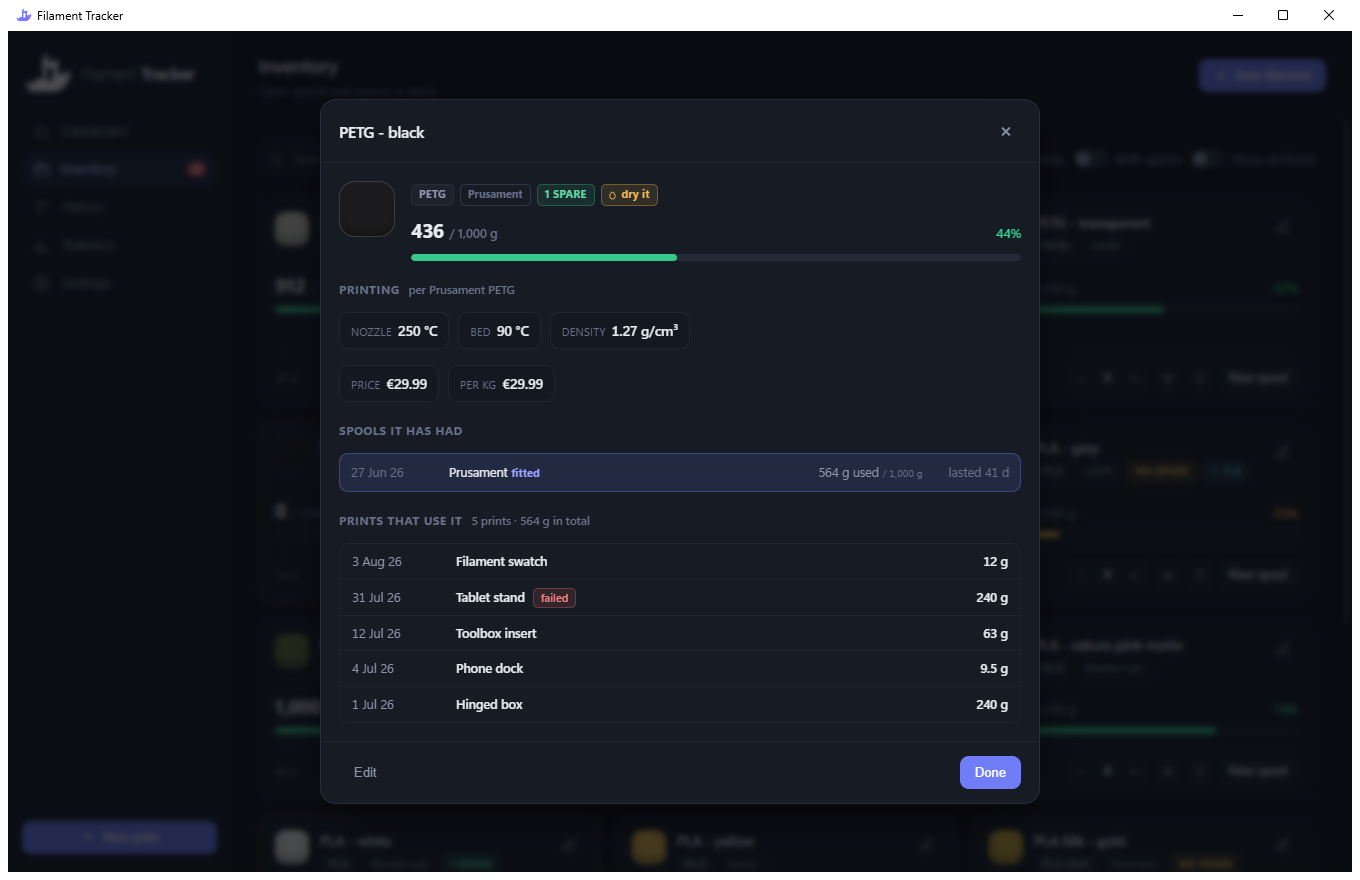
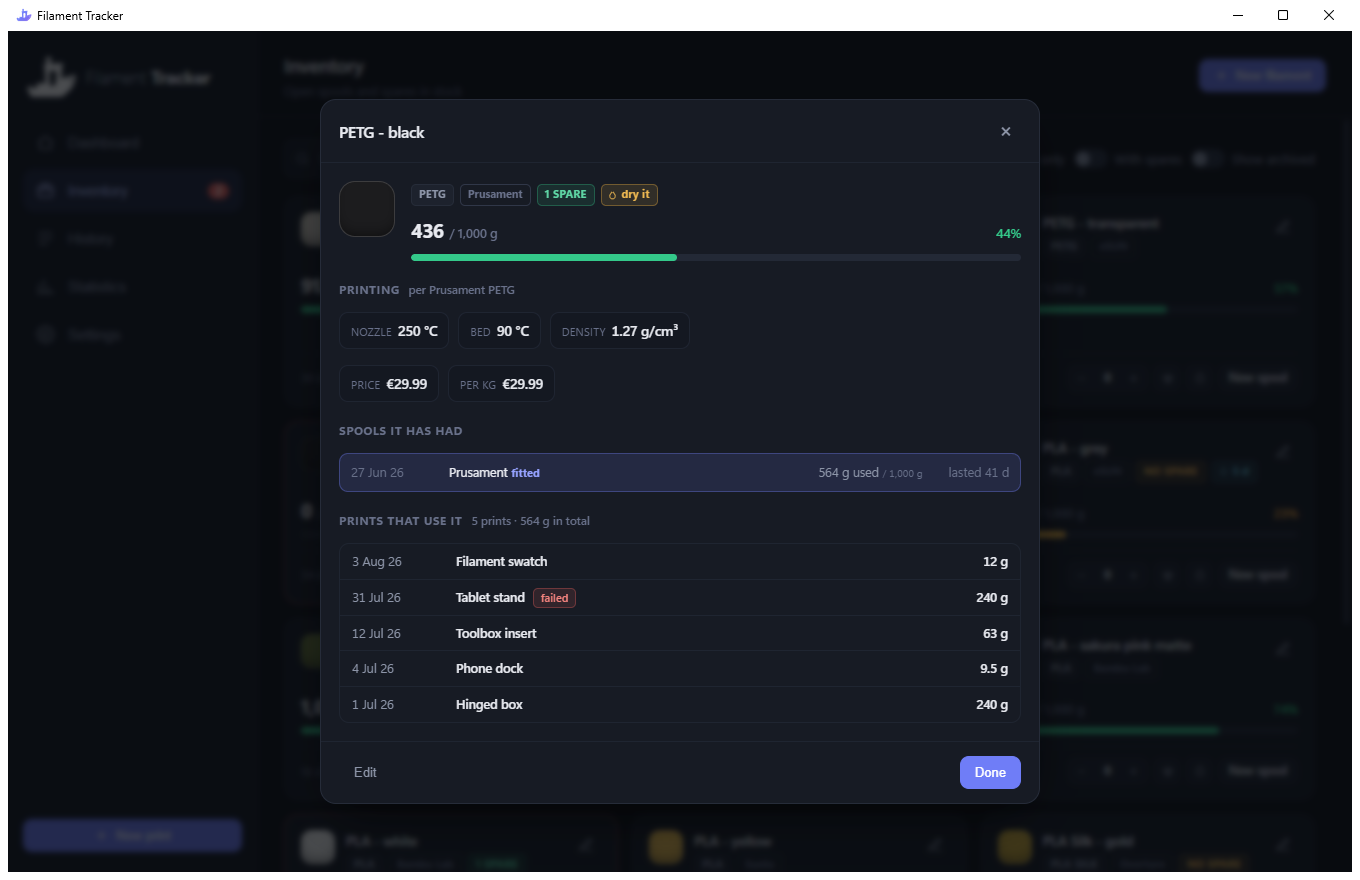
Bring the manual and the screenshots up to date
Documents the slicer folder panel: which folder is in use, how many sliced
plates are in it, and how to point it somewhere else. That number is the part
worth writing down, because it is what tells you whether a card that never
appears is reading an empty folder or the wrong one.

Also corrects the inventory section, which still said the sheet opens from the
filament's name, and regenerates all five screenshots for the wider sidebar.

diff --git a/README.es.md b/README.es.md
@@ -119,7 +119,8 @@ bobina sin borrar el historial.
 <img src="docs/inventory.png" alt="Inventario">
 
 Una tarjeta por filamento, con el nivel del rollo puesto y una barra que pasa a
-ámbar y luego a rojo según se vacía. Al pulsar el nombre se abre su **ficha**: todos
+ámbar y luego a rojo según se vacía. Al pulsar en cualquier punto de la tarjeta se
+abre su **ficha**: todos
 los rollos que ha tenido, con su marca, cuánto se consumió de cada uno y cuántos
 días duró, más la lista de impresiones que lo usaron.
 
@@ -204,6 +205,11 @@ esté mal se olvida de un clic.
 El aviso se puede apagar en Ajustes › Bambu Studio. *Ahora no* lo esconde y vuelve
 a la siguiente; la **×** descarta ese laminado para siempre. Un laminado que no
 llegaste a imprimir simplemente no se confirma nunca.
+
+**La carpeta.** La encuentra sola, y en ese mismo panel se ve cuál está usando y
+cuántas placas laminadas hay dentro — así, si el aviso no aparece nunca, puedes
+ver si está leyendo una carpeta vacía o la que no es. Se cambia con **Elegir…** y
+se vuelve a lo automático con **Que la busque él**.
 
 Esto lee la carpeta temporal del propio Bambu Studio, que no es una interfaz
 documentada. Si una versión futura la cambia de sitio, el aviso deja de aparecer y

diff --git a/README.md b/README.md
@@ -119,7 +119,7 @@ without wiping your history.
 <img src="docs/inventory.png" alt="Inventory">
 
 One card per filament, with the level of the fitted roll and a bar that turns amber
-and then red as it empties. Click the name to open its **detail sheet**: every roll
+and then red as it empties. Click anywhere on the card to open its **detail sheet**: every roll
 it has had, with brand, how much was consumed from each and how long it lasted, plus
 the list of prints that used it.
 
@@ -202,6 +202,11 @@ anything wrong can be forgotten with one click.
 The card can be switched off in Settings › Bambu Studio. *Not now* hides it and
 brings it back next time; the **×** dismisses that slice for good. A slice you
 never printed is simply never confirmed.
+
+**The folder.** Found on its own, and the same panel shows which one is in use
+and how many sliced plates are in it — so if the card never appears you can see
+whether it is reading an empty folder or the wrong one. Point it somewhere else
+with **Choose…**, or put it back with **Find it for me**.
 
 This reads Bambu Studio's own temporary folder, which is not a documented
 interface. If a future version moves it, the card just stops appearing — nothing
